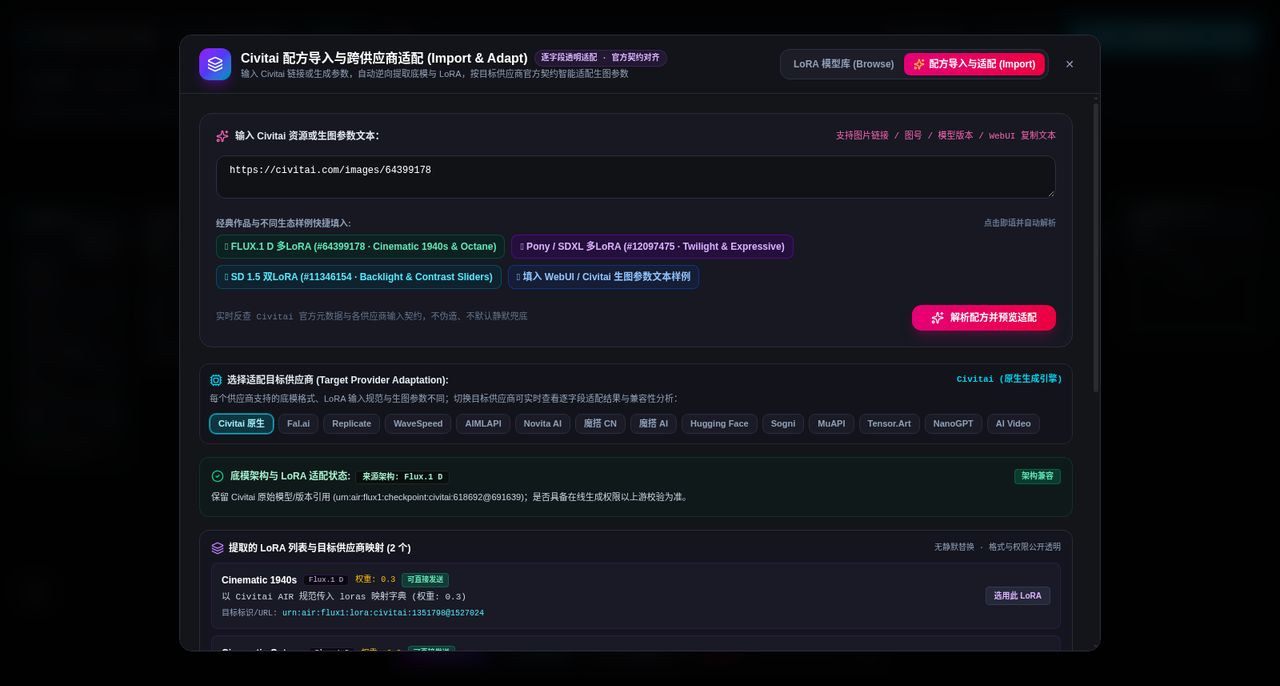
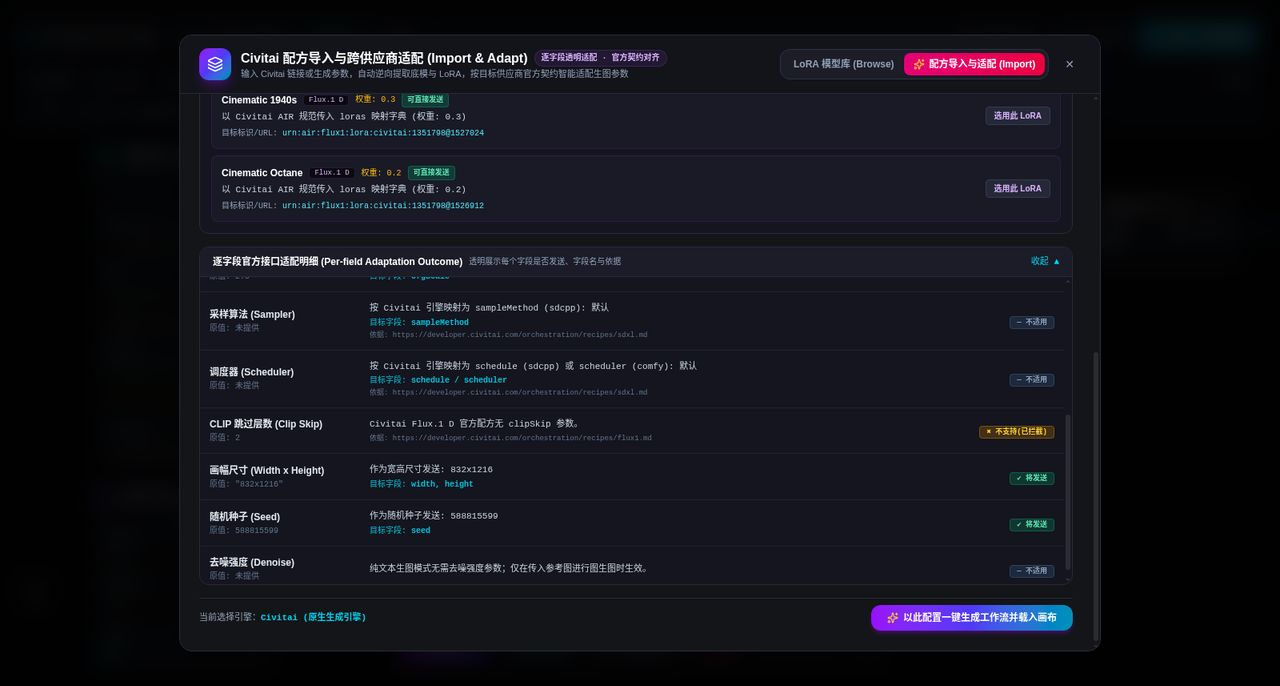
docs(civitai): recapture scrolled preview screenshots with clipSkip rows and update descriptions

diff --git a/docs/evidence/2026-11-05/civitai-clipskip.md b/docs/evidence/2026-11-05/civitai-clipskip.md
@@ -299,22 +299,21 @@ OpenAPI 现象与说明：
 
 ### 6.1 截图 1：`e2e-m11-sd15-01-import-preview.jpg`
 - **文件路径**：`docs/evidence/2026-11-05/civitai-clipskip/e2e-m11-sd15-01-import-preview.jpg`
-- **逐行可见文字与界面审查**：
+- **逐行可见文字与界面审查 (ReadMediaFile 原文核对)**：
   - 顶部标题行：「Civitai 配方导入与跨供应商适配 (Import & Adapt) 逐字段透明适配 · 官方契约对齐」
-  - 顶部标签切换器：「LoRA 模型库 (Browse)」、「✨ 配方导入与适配 (Import)」（粉红高亮选中）、「×」关闭按钮
-  - 资源输入框标签：「输入 Civitai 资源或生图参数文本: 支持图片链接 / 图号 / 模型版本 / webUI 复制文本」
-  - 输入框内容：`https://civitai.com/images/11346154`
-  - 快捷填入按钮组：
-    - 「FLUX.1 D 多LoRA (#64399178 · Cinematic 1940s & Octane)」
-    - 「Pony / SDXL 多LoRA (#12097475 · Twilight & Expressive)」
-    - 「📸 SD 1.5 双LoRA (#11346154 · Backlight & Contrast Sliders)」
-    - 「填入 WebUI / Civitai 生图参数文本样例」
-  - 底行提示：「实时反查 Civitai 官方元数据与各供应商输入契约，不伪造、不默认静默兜底」、「✨ 解析配方并预览适配」按钮
-  - 目标供应商切换行：「选择适配目标供应商 (Target Provider Adaptation): Civitai (原生生成引擎)」
-  - 供应商选项芯片：`Civitai 原生` (青色高亮)、`Fal.ai`、`Replicate`、`WaveSpeed`、`AIMLAPI`、`Novita AI`、`魔搭 CN`、`魔搭 AI`、`Hugging Face`、`Sogni`、`MuAPI`、`Tensor.Art`、`NanoGPT`、`AI Video`
-  - 架构适配指示卡：「底模架构与 LoRA 适配状态: 来源架构: SD 1.5 保留 Civitai 原始模型/版本引用 (urn:air:sd1:checkpoint:civitai:94809@393843); 是否具备在线生成权限以上游校验为准。」右侧绿色徽章：「架构兼容」
-  - 提取的 LoRA 列表条目：「提取的 LoRA 列表与目标供应商映射 (2 个) 无静默替换 · 格式与权限公开透明」
-    - 第一项：「v1.0 SD 1.5 权重: 2 可直接发送 以 Civitai AIR 规范传入 loras 映射字典 (权重: 2) 目标标识/URL: urn:air:sd1:lora:civitai:155496@174426」右侧按钮「选用此 LoRA」
+  - 顶部模式切换按钮：「LoRA 模型库 (Browse)」、「✨ 配方导入与适配 (Import)」（粉红高亮选中）、「×」关闭按钮
+  - 上部 LoRA 列表呈现卡片：
+    - LoRA 1：「v1.0 SD 1.5 权重: 2 可直接发送 以 Civitai AIR 规范传入 loras 映射字典 (权重: 2) 目标标识/URL: urn:air:sd1:lora:civitai:155496@174426 [选用此 LoRA]」
+    - LoRA 2：「v1.0 SD 1.5 权重: -1.5 可直接发送 以 Civitai AIR 规范传入 loras 映射字典 (权重: -1.5) 目标标识/URL: urn:air:sd1:lora:civitai:151576@169496 [选用此 LoRA]」
+  - 中部逐字段明细表表头：「逐字段官方接口适配明细 (Per-field Adaptation Outcome) 透明展示每个字段是否发送、字段名与依据 收起 ▲」
+  - 明细表滚动视图核心入镜行（逐行真实可见）：
+    - 采样算法 (Sampler) | 原值: "dpm++2m" | 按 Civitai 引擎映射为 sampleMethod (sdcpp): dpm++2m 目标字段: sampleMethod 依据: https://developer.civitai.com/orchestration/recipes/sdxl.md | 「✔ 将发送」
+    - 调度器 (Scheduler) | 原值: 未提供 | 按 Civitai 引擎映射为 schedule (sdcpp) 或 scheduler (comfy): 默认 目标字段: schedule / scheduler 依据: https://developer.civitai.com/orchestration/recipes/sdxl.md | 「— 不适用」
+    - **CLIP 跳过层数 (Clip Skip) | 原值: 2 | 作为 Civitai SD 1.5 clipSkip 发送 (2) 目标字段: clipSkip 依据: https://developer.civitai.com/orchestration/recipes/sd1.md | 「✔ 将发送」 (绿色徽章明确在镜)**
+    - 画幅尺寸 (Width x Height) | 原值: "512x768" | 作为宽高尺寸发送: 512x768 目标字段: width, height | 「✔ 将发送」
+    - 随机种子 (Seed) | 原值: 143848724 | 作为随机种子发送: 143848724 目标字段: seed | 「✔ 将发送」
+    - 去噪强度 (Denoise) | 原值: 未提供 | 纯文本生图模式无需去噪强度参数；仅在传入参考图进行图生图时生效。 | 「— 不适用」
+  - 底部操作栏：「当前选择引擎: Civitai (原生生成引擎)」、「✨ 以此配置一键生成工作流并载入画布」
 
 ### 6.2 截图 2：`e2e-m11-sd15-02-applied-canvas.jpg`
 - **文件路径**：`docs/evidence/2026-11-05/civitai-clipskip/e2e-m11-sd15-02-applied-canvas.jpg`
@@ -346,12 +345,21 @@ OpenAPI 现象与说明：
 
 ### 6.4 截图 4：`e2e-m11-non-sd15-01-preview.jpg`
 - **文件路径**：`docs/evidence/2026-11-05/civitai-clipskip/e2e-m11-non-sd15-01-preview.jpg`
-- **逐行可见文字与界面审查**：
-  - 模态弹窗标题：「Civitai 配方导入与跨供应商适配 (Import & Adapt)」
-  - 输入文本框：`https://civitai.com/images/64399178`
-  - 目标服务商：`Civitai 原生`
-  - 来源架构卡片：「底模架构与 LoRA 适配状态: 来源架构: Flux.1 D 保留 Civitai 原始模型/版本引用 (urn:air:flux1:checkpoint:civitai:618692@691639)」，绿色徽章「架构兼容」
-  - 提取 LoRA 列表条目：「Cinematic 1940s Flux.1 D 权重: 0.3 可直接发送」，目标标识 `urn:air:flux1:lora:civitai:1351798@1527024`
+- **逐行可见文字与界面审查 (ReadMediaFile 原文核对)**：
+  - 顶部标题行：「Civitai 配方导入与跨供应商适配 (Import & Adapt) 逐字段透明适配 · 官方契约对齐」
+  - 顶部模式切换按钮：「LoRA 模型库 (Browse)」、「✨ 配方导入与适配 (Import)」、「×」
+  - 上部 LoRA 列表呈现卡片：
+    - LoRA 1：「Cinematic 1940s Flux.1 D 权重: 0.3 可直接发送 以 Civitai AIR 规范传入 loras 映射字典 (权重: 0.3) 目标标识/URL: urn:air:flux1:lora:civitai:1351798@1527024 [选用此 LoRA]」
+    - LoRA 2：「Cinematic Octane Flux.1 D 权重: 0.2 可直接发送 以 Civitai AIR 规范传入 loras 映射字典 (权重: 0.2) 目标标识/URL: urn:air:flux1:lora:civitai:1351798@1526912 [选用此 LoRA]」
+  - 中部逐字段明细表表头：「逐字段官方接口适配明细 (Per-field Adaptation Outcome) 透明展示每个字段是否发送、字段名与依据 收起 ▲」
+  - 明细表滚动视图核心入镜行（逐行真实可见）：
+    - 采样算法 (Sampler) | 原值: 未提供 | 按 Civitai 引擎映射为 sampleMethod (sdcpp): 默认 目标字段: sampleMethod 依据: https://developer.civitai.com/orchestration/recipes/sdxl.md | 「— 不适用」
+    - 调度器 (Scheduler) | 原值: 未提供 | 按 Civitai 引擎映射为 schedule (sdcpp) 或 scheduler (comfy): 默认 目标字段: schedule / scheduler 依据: https://developer.civitai.com/orchestration/recipes/sdxl.md | 「— 不适用」
+    - **CLIP 跳过层数 (Clip Skip) | 原值: 2 | Civitai Flux.1 D 官方配方无 clipSkip 参数。 依据: https://developer.civitai.com/orchestration/recipes/flux1.md | 「✖ 不支持(已拦截)」 (黄色徽章明确在镜，透明给出排除原因)**
+    - 画幅尺寸 (Width x Height) | 原值: "832x1216" | 作为宽高尺寸发送: 832x1216 目标字段: width, height | 「✔ 将发送」
+    - 随机种子 (Seed) | 原值: 588815599 | 作为随机种子发送: 588815599 目标字段: seed | 「✔ 将发送」
+    - 去噪强度 (Denoise) | 原值: 未提供 | 纯文本生图模式无需去噪强度参数；仅在传入参考图进行图生图时生效。 | 「— 不适用」
+  - 底部操作栏：「当前选择引擎: Civitai (原生生成引擎)」、「✨ 以此配置一键生成工作流并载入画布」
 
 ### 6.5 截图 5：`e2e-m11-non-sd15-02-run-result.jpg`
 - **文件路径**：`docs/evidence/2026-11-05/civitai-clipskip/e2e-m11-non-sd15-02-run-result.jpg`
